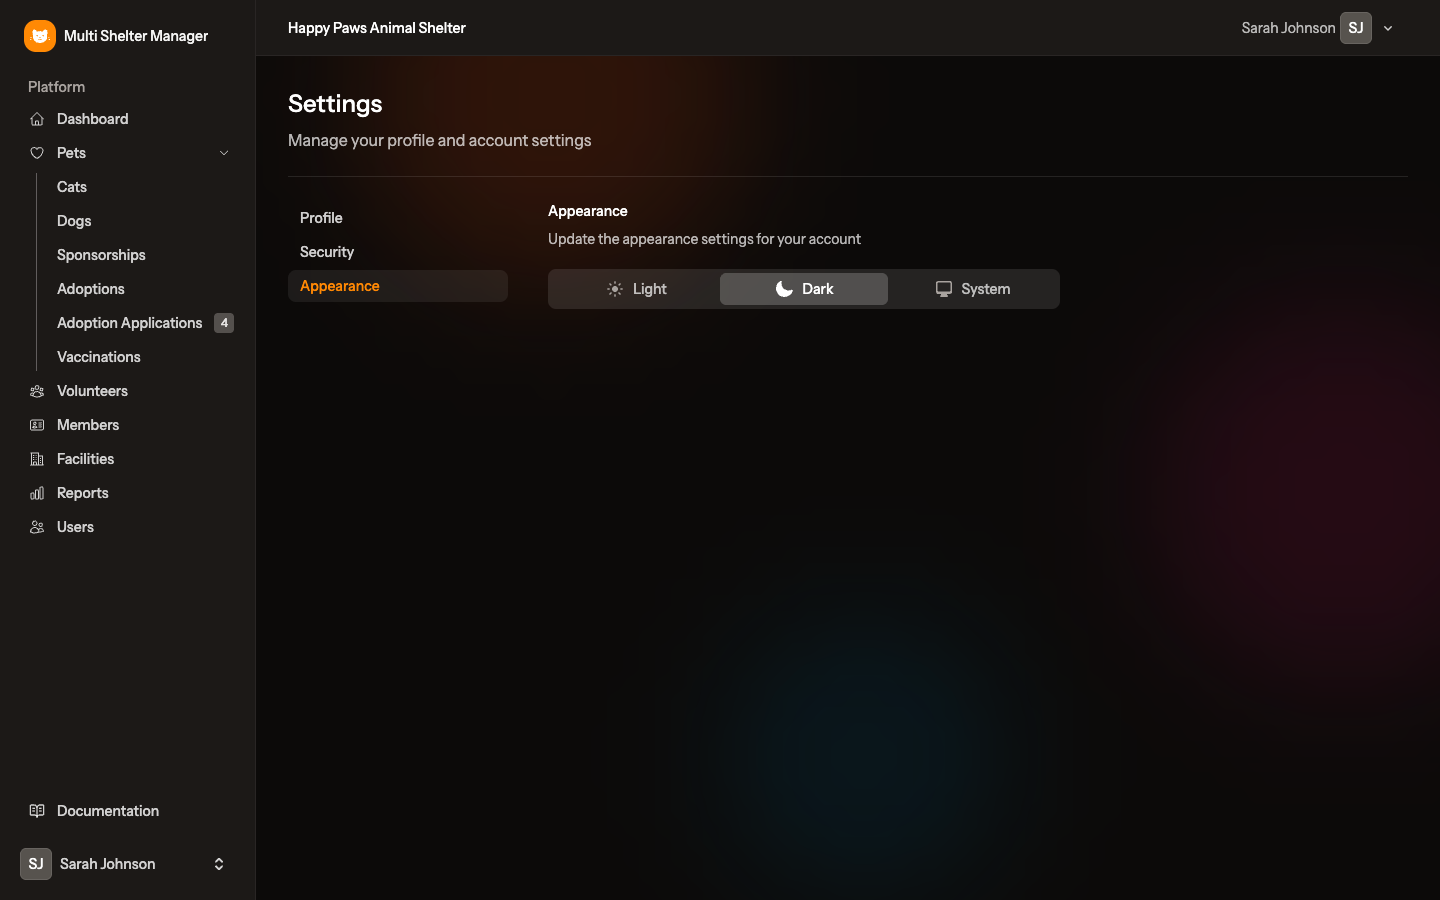
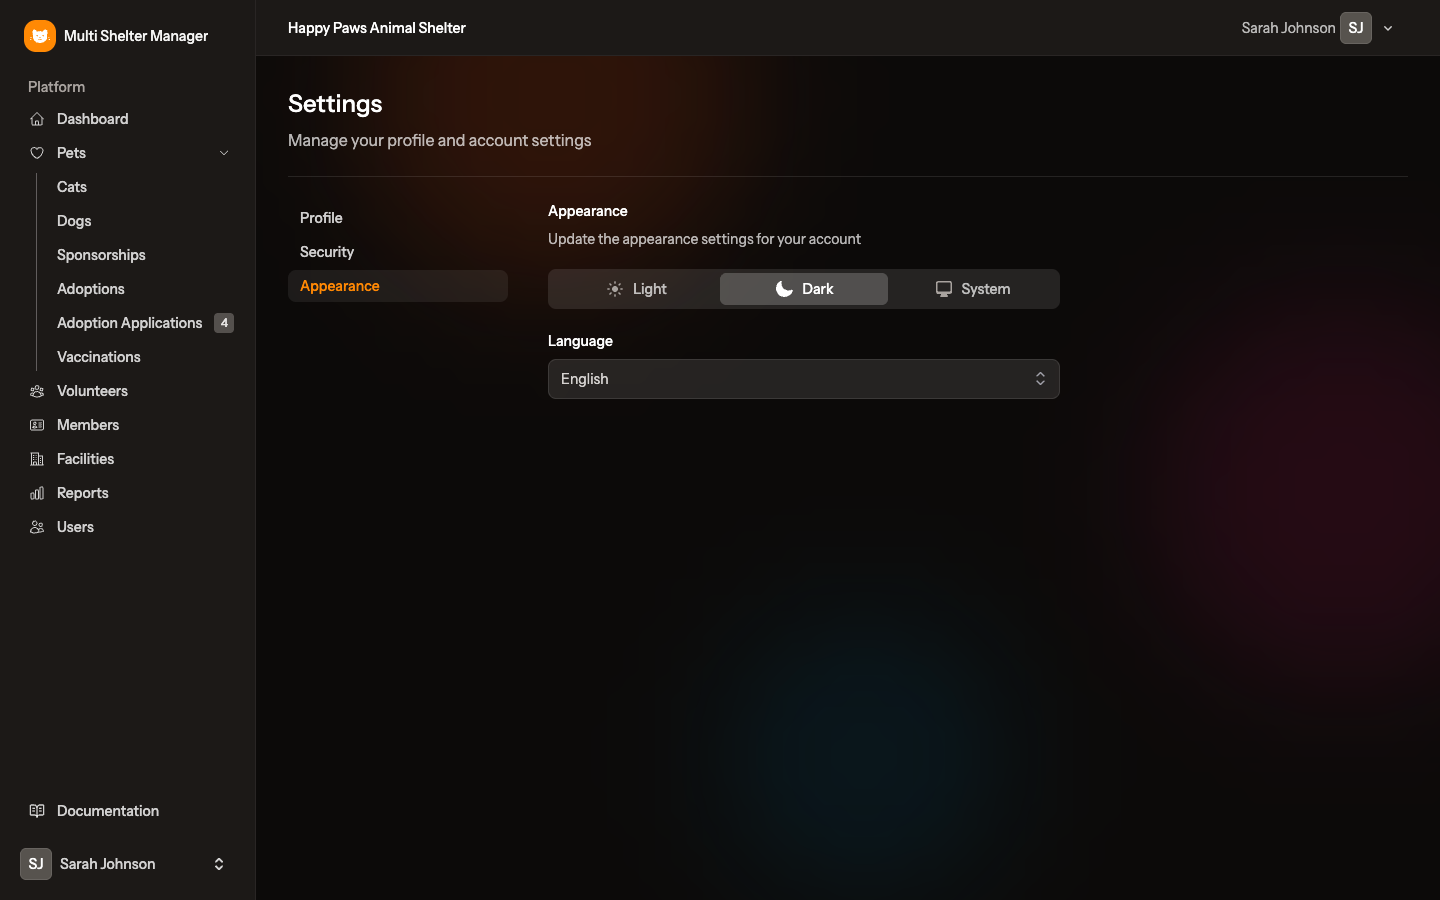
Documentation update

Changed region(s): [[0.375, 0.3733, 0.75, 0.4667]]

diff --git a/resources/views/livewire/documentation/instructions-de.blade.php b/resources/views/livewire/documentation/instructions-de.blade.php
@@ -224,6 +224,6 @@
 
     <section id="settings" class="flex scroll-mt-6 flex-col gap-2">
         <h2 class="text-lg font-semibold text-neutral-900 dark:text-white">Einstellungen</h2>
-        <p>Öffnen Sie über das Benutzermenü die Einstellungen, um Ihr Profil anzusehen, Ihr Passwort zu ändern und das Erscheinungsbild zu wählen (hell, dunkel oder System). Ihr Name kann nur von einem Administrator oder der Tierheimleitung geändert werden, Ihre E-Mail-Adresse kann nicht geändert werden.</p>
+        <p>Öffnen Sie über das Benutzermenü die Einstellungen, um Ihr Profil anzusehen, Ihr Passwort zu ändern und das Erscheinungsbild (hell, dunkel oder System) sowie Ihre Sprache zu wählen. Ihr Name kann nur von einem Administrator oder der Tierheimleitung geändert werden, Ihre E-Mail-Adresse kann nicht geändert werden. Die Sprache wird in Ihrem Konto gespeichert und auch für die E-Mails verwendet, die Sie erhalten. Auf den öffentlichen Seiten und der Anmeldeseite kann jeder die Sprache über das Menü oben wechseln.</p>
     </section>
 </div>

diff --git a/resources/views/livewire/documentation/instructions-fr.blade.php b/resources/views/livewire/documentation/instructions-fr.blade.php
@@ -224,6 +224,6 @@
 
     <section id="settings" class="flex scroll-mt-6 flex-col gap-2">
         <h2 class="text-lg font-semibold text-neutral-900 dark:text-white">Paramètres</h2>
-        <p>Depuis le menu utilisateur, ouvrez Paramètres pour consulter votre profil, changer votre mot de passe et choisir l'apparence (claire, sombre ou système). Votre nom ne peut être modifié que par un administrateur ou un gestionnaire, et votre email ne peut pas être modifié.</p>
+        <p>Depuis le menu utilisateur, ouvrez Paramètres pour consulter votre profil, changer votre mot de passe et choisir l'apparence (claire, sombre ou système) ainsi que votre langue. Votre nom ne peut être modifié que par un administrateur ou un gestionnaire, et votre email ne peut pas être modifié. La langue est enregistrée dans votre compte et utilisée aussi pour les emails que vous recevez. Sur les pages publiques et la page de connexion, chacun peut changer de langue dans le menu en haut.</p>
     </section>
 </div>

diff --git a/resources/views/livewire/documentation/instructions-nl.blade.php b/resources/views/livewire/documentation/instructions-nl.blade.php
@@ -224,6 +224,6 @@
 
     <section id="settings" class="flex scroll-mt-6 flex-col gap-2">
         <h2 class="text-lg font-semibold text-neutral-900 dark:text-white">Instellingen</h2>
-        <p>Open via het gebruikersmenu de Instellingen om uw profiel te bekijken, uw wachtwoord te wijzigen en de weergave te kiezen (licht, donker of systeem). Uw naam kan alleen door een beheerder of asielbeheerder worden gewijzigd, en uw e-mailadres kan niet worden gewijzigd.</p>
+        <p>Open via het gebruikersmenu de Instellingen om uw profiel te bekijken, uw wachtwoord te wijzigen en de weergave (licht, donker of systeem) en uw taal te kiezen. Uw naam kan alleen door een beheerder of asielbeheerder worden gewijzigd, en uw e-mailadres kan niet worden gewijzigd. De taal wordt in uw account opgeslagen en ook gebruikt voor de e-mails die u ontvangt. Op de openbare pagina's en de inlogpagina kan iedereen de taal wijzigen via het menu bovenaan.</p>
     </section>
 </div>

diff --git a/resources/views/livewire/documentation/instructions-it.blade.php b/resources/views/livewire/documentation/instructions-it.blade.php
@@ -224,6 +224,6 @@
 
     <section id="settings" class="flex scroll-mt-6 flex-col gap-2">
         <h2 class="text-lg font-semibold text-neutral-900 dark:text-white">Impostazioni</h2>
-        <p>Dal menu utente, apri Impostazioni per vedere il tuo profilo, cambiare la password e scegliere l'aspetto (chiaro, scuro o di sistema). Il tuo nome può essere modificato solo da un amministratore o da un responsabile, e la tua email non può essere modificata.</p>
+        <p>Dal menu utente, apri Impostazioni per vedere il tuo profilo, cambiare la password e scegliere l'aspetto (chiaro, scuro o di sistema) e la lingua. Il tuo nome può essere modificato solo da un amministratore o da un responsabile, e la tua email non può essere modificata. La lingua viene salvata nel tuo account e usata anche per le email che ricevi. Nelle pagine pubbliche e nella pagina di accesso, chiunque può cambiare lingua dal menu in alto.</p>
     </section>
 </div>

diff --git a/resources/views/livewire/documentation/instructions-sv.blade.php b/resources/views/livewire/documentation/instructions-sv.blade.php
@@ -224,6 +224,6 @@
 
     <section id="settings" class="flex scroll-mt-6 flex-col gap-2">
         <h2 class="text-lg font-semibold text-neutral-900 dark:text-white">Inställningar</h2>
-        <p>Öppna Inställningar från användarmenyn för att se din profil, byta lösenord och välja utseende (ljust, mörkt eller system). Ditt namn kan bara ändras av en administratör eller föreståndare, och din e-postadress kan inte ändras.</p>
+        <p>Öppna Inställningar från användarmenyn för att se din profil, byta lösenord och välja utseende (ljust, mörkt eller system) och språk. Ditt namn kan bara ändras av en administratör eller föreståndare, och din e-postadress kan inte ändras. Språket sparas på ditt konto och används även för de e-postmeddelanden du får. På de offentliga sidorna och inloggningssidan kan vem som helst byta språk i menyn högst upp.</p>
     </section>
 </div>

diff --git a/resources/views/livewire/documentation/instructions-pt.blade.php b/resources/views/livewire/documentation/instructions-pt.blade.php
@@ -224,6 +224,6 @@
 
     <section id="settings" class="flex scroll-mt-6 flex-col gap-2">
         <h2 class="text-lg font-semibold text-neutral-900 dark:text-white">Definições</h2>
-        <p>No menu do utilizador, abra Definições para ver o seu perfil, alterar a palavra-passe e escolher a aparência (clara, escura ou do sistema). O nome só pode ser alterado por um administrador ou gestor, e o email não pode ser alterado.</p>
+        <p>No menu do utilizador, abra Definições para ver o seu perfil, alterar a palavra-passe e escolher a aparência (clara, escura ou do sistema) e o idioma. O nome só pode ser alterado por um administrador ou gestor, e o email não pode ser alterado. O idioma fica guardado na sua conta e é também usado nos emails que recebe. Nas páginas públicas e na página de entrada, qualquer pessoa pode mudar o idioma no menu no topo.</p>
     </section>
 </div>

diff --git a/resources/views/livewire/documentation/instructions-es.blade.php b/resources/views/livewire/documentation/instructions-es.blade.php
@@ -224,6 +224,6 @@
 
     <section id="settings" class="flex scroll-mt-6 flex-col gap-2">
         <h2 class="text-lg font-semibold text-neutral-900 dark:text-white">Ajustes</h2>
-        <p>Desde el menú de usuario, abra Ajustes para ver su perfil, cambiar su contraseña y elegir la apariencia (clara, oscura o del sistema). Su nombre solo puede cambiarlo un administrador o gestor, y su email no se puede cambiar.</p>
+        <p>Desde el menú de usuario, abra Ajustes para ver su perfil, cambiar su contraseña y elegir la apariencia (clara, oscura o del sistema) y su idioma. Su nombre solo puede cambiarlo un administrador o gestor, y su email no se puede cambiar. El idioma se guarda en su cuenta y también se usa en los emails que recibe. En las páginas públicas y en la de inicio de sesión, cualquiera puede cambiar el idioma en el menú superior.</p>
     </section>
 </div>

diff --git a/resources/views/livewire/documentation/instructions-pl.blade.php b/resources/views/livewire/documentation/instructions-pl.blade.php
@@ -224,6 +224,6 @@
 
     <section id="settings" class="flex scroll-mt-6 flex-col gap-2">
         <h2 class="text-lg font-semibold text-neutral-900 dark:text-white">Ustawienia</h2>
-        <p>Z menu użytkownika otwórz Ustawienia, aby zobaczyć swój profil, zmienić hasło i wybrać wygląd (jasny, ciemny lub systemowy). Imię może zmienić tylko administrator lub kierownik, a adresu e-mail nie można zmienić.</p>
+        <p>Z menu użytkownika otwórz Ustawienia, aby zobaczyć swój profil, zmienić hasło i wybrać wygląd (jasny, ciemny lub systemowy) oraz język. Imię może zmienić tylko administrator lub kierownik, a adresu e-mail nie można zmienić. Język jest zapisywany na Twoim koncie i używany również w otrzymywanych e-mailach. Na stronach publicznych i stronie logowania każdy może zmienić język w menu u góry.</p>
     </section>
 </div>

diff --git a/resources/views/livewire/documentation/instructions-da.blade.php b/resources/views/livewire/documentation/instructions-da.blade.php
@@ -224,6 +224,6 @@
 
     <section id="settings" class="flex scroll-mt-6 flex-col gap-2">
         <h2 class="text-lg font-semibold text-neutral-900 dark:text-white">Indstillinger</h2>
-        <p>Åbn Indstillinger fra brugermenuen for at se din profil, skifte adgangskode og vælge udseende (lyst, mørkt eller system). Dit navn kan kun ændres af en administrator eller internatleder, og din e-mailadresse kan ikke ændres.</p>
+        <p>Åbn Indstillinger fra brugermenuen for at se din profil, skifte adgangskode og vælge udseende (lyst, mørkt eller system) og sprog. Dit navn kan kun ændres af en administrator eller internatleder, og din e-mailadresse kan ikke ændres. Sproget gemmes på din konto og bruges også i de e-mails, du modtager. På de offentlige sider og login-siden kan alle skifte sprog i menuen øverst.</p>
     </section>
 </div>

diff --git a/resources/views/livewire/documentation/instructions-en.blade.php b/resources/views/livewire/documentation/instructions-en.blade.php
@@ -224,6 +224,6 @@
 
     <section id="settings" class="flex scroll-mt-6 flex-col gap-2">
         <h2 class="text-lg font-semibold text-neutral-900 dark:text-white">Settings</h2>
-        <p>From the user menu, open Settings to view your profile, change your password and choose the appearance (light, dark or system). Your name can only be changed by an admin or manager, and your email cannot be changed.</p>
+        <p>From the user menu, open Settings to view your profile, change your password and choose the appearance (light, dark or system) and your language. Your name can only be changed by an admin or manager, and your email cannot be changed. The language is saved to your account and is also used for the e-mails you receive. On the public pages and the login page, anyone can switch language in the menu at the top.</p>
     </section>
 </div>

diff --git a/resources/views/livewire/settings/appearance.blade.php b/resources/views/livewire/settings/appearance.blade.php
@@ -10,7 +10,7 @@
             <flux:radio value="system" icon="computer-desktop">{{ __('System') }}</flux:radio>
         </flux:radio.group>
 
-        <flux:select wire:model.live="locale" :label="__('Language')" class="mt-6" data-test="locale-select">
+        <flux:select wire:model.live="locale" :label="__('Language')" field:class="mt-6" data-test="locale-select">
             @foreach (config('app.available_locales') as $code => $language)
                 <flux:select.option value="{{ $code }}" lang="{{ $code }}">{{ $language }}</flux:select.option>
             @endforeach

diff --git a/docs/01-installation.md b/docs/01-installation.md
@@ -56,7 +56,7 @@ APP_FALLBACK_LOCALE=en
 
 `APP_NAME` is shown in the sidebar, on the login page, on printed sheets and in e-mails.
 
-`APP_LOCALE` sets the interface language. Supported languages:
+`APP_LOCALE` sets the default interface language. Everyone sees it until they pick another language: users in **Settings → Appearance**, visitors in the language menu at the top of the public and login pages (see [Personal settings](15-settings.md#154-language)). Supported languages:
 
 | Code | Language | Code | Language |
 |------|----------|------|----------|
@@ -182,7 +182,7 @@ All settings live in the `.env` file at the root of the project. After changing 
 | `APP_KEY` | Secret key used to encrypt sessions and data. Generated by `php artisan key:generate` | *(empty)* | Generate once and **never change or lose it**: existing sessions and encrypted data become unreadable |
 | `APP_DEBUG` | Show detailed error pages | `true` | **`false`**. Debug pages can reveal passwords and other secrets |
 | `APP_URL` | Public address of the application. Used in e-mail links (invitations, password resets) and image URLs | `http://localhost:8000` | Your real address, e.g. `https://shelters.example.org` |
-| `APP_LOCALE` | Interface language: `en`, `pt`, `es`, `fr`, `de`, `it`, `nl`, `pl`, `sv` or `da` | `en` | Your language |
+| `APP_LOCALE` | Default interface language, until a user or visitor picks another: `en`, `pt`, `es`, `fr`, `de`, `it`, `nl`, `pl`, `sv` or `da` | `en` | Your language |
 | `APP_FALLBACK_LOCALE` | Language used when a text has no translation in `APP_LOCALE` | `en` | `en` |
 | `APP_FAKER_LOCALE` | Language of the fake data generated by tests and seeders | `en_US` | Leave as is |
 | `APP_MAINTENANCE_DRIVER` | Where the maintenance-mode flag (`php artisan down`) is stored | `file` | `file`. Use `cache` if you run several servers |
